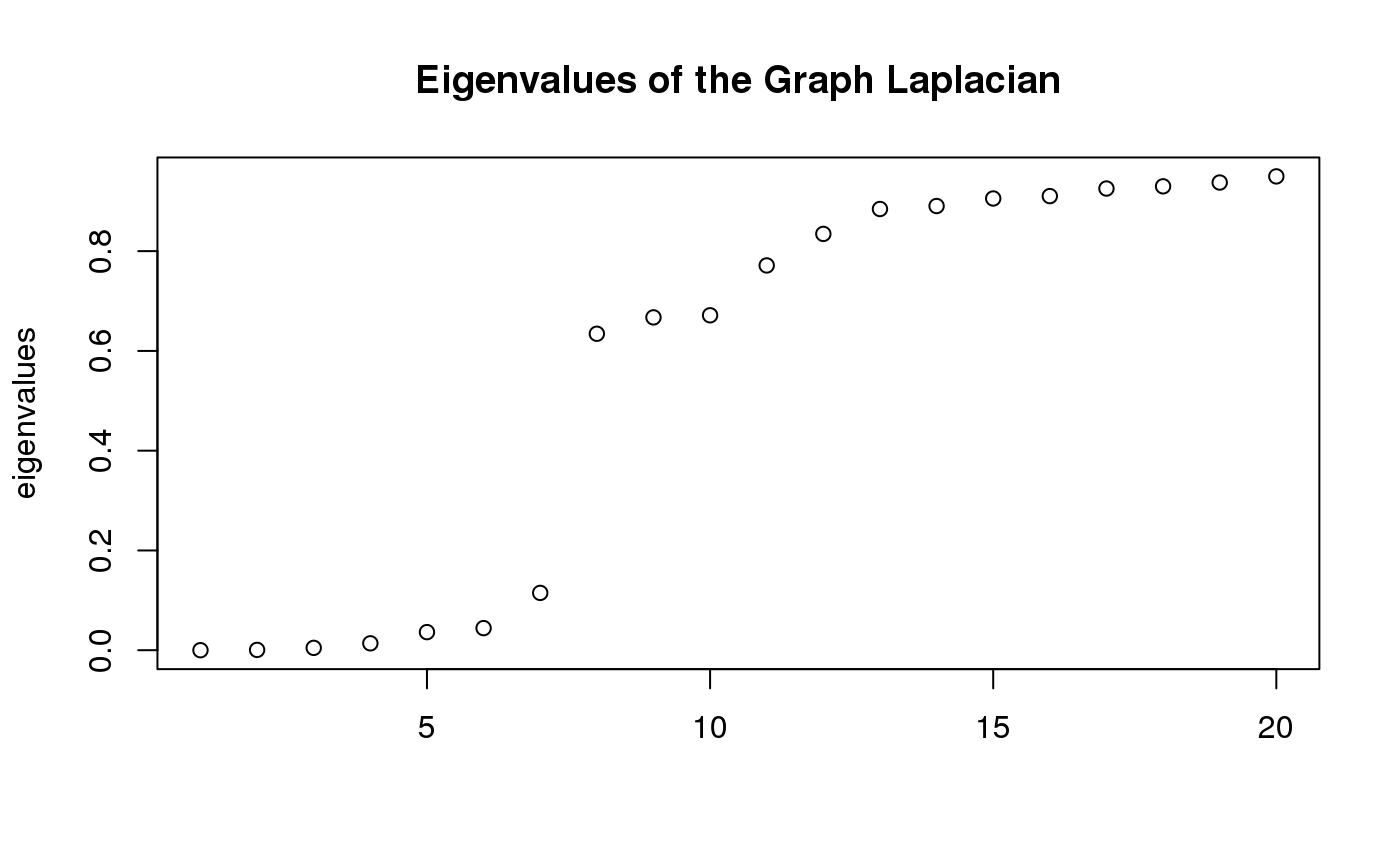
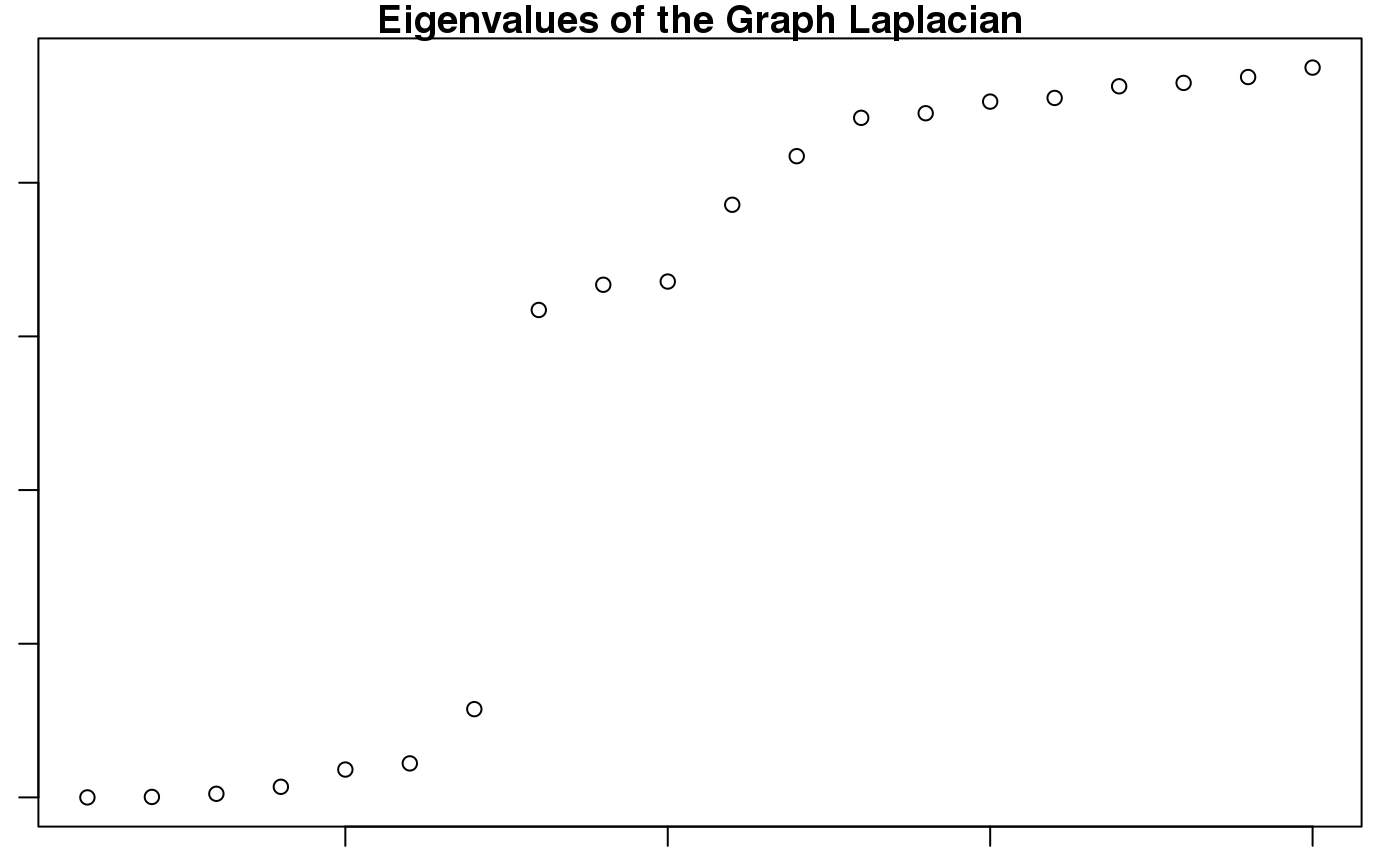
readme and .essage stuff, mapping fn sim bug

diff --git a/docs/articles/Joost_et_al.html b/docs/articles/Joost_et_al.html
@@ -81,7 +81,7 @@
       <h1>Clustering Pseudotime Inference on Skin Cell scRNA-seq</h1>
                         <h4 class="author">Matt Karikomi</h4>
             
-            <h4 class="date">2018-12-05</h4>
+            <h4 class="date">2018-12-06</h4>
       
       
       <div class="hidden name"><code>Joost_et_al.Rmd</code></div>
@@ -120,10 +120,10 @@ filtered_data &lt;-<span class="st"> </span><span class="kw"><a href="../referen
 <h2 class="hasAnchor">
 <a href="#compute-the-similarity-matrix" class="anchor"></a>Compute the Similarity Matrix</h2>
 <p>Run L2R2 on the processed data, outputting the number of iterations and value of the objective.</p>
-<div class="sourceCode"><pre class="sourceCode r"><code class="sourceCode r">sim &lt;-<span class="st"> </span><span class="kw"><a href="../reference/SimilarityM.html">SimilarityM</a></span>(<span class="dt">lambda =</span> <span class="fl">0.05</span>, <span class="dt">data =</span> filtered_data<span class="op">$</span>M_variable)</code></pre></div>
-<p>[1] “Iter Err” 1, 20.597435 2, 19.520815 3, 18.476136 4, 17.491670 5, 16.569212 6, 15.705525 7, 7.770185 8, 0.415020 9, 0.356815 10, 0.339246 11, 0.328628 12, 0.318293 13, 0.307808 14, 0.297460 15, 0.287398 16, 0.277677 17, 0.268311 18, 0.253743 19, 0.232315 20, 0.204575 21, 0.170748 22, 0.130527 23, 0.083237 24, 0.041469 25, 0.100519 [1] “not reach epsilon”</p>
+<div class="sourceCode"><pre class="sourceCode r"><code class="sourceCode r">S &lt;-<span class="st"> </span><span class="kw"><a href="../reference/SimilarityM.html">SimilarityM</a></span>(<span class="dt">lambda =</span> <span class="fl">0.05</span>, <span class="dt">data =</span> filtered_data<span class="op">$</span>M_variable)</code></pre></div>
+<p>[1] “Iter Err” 1, 20.597435 2, 19.520815 3, 18.476136 4, 17.491670 5, 16.569212 6, 15.705525 7, 7.770185 8, 0.415020 9, 0.356815 10, 0.339246 11, 0.328628 12, 0.318293 13, 0.307808 14, 0.297460 15, 0.287398 16, 0.277677 17, 0.268311 18, 0.253743 19, 0.232315 20, 0.204575 21, 0.170748 22, 0.130527 23, 0.083237 24, 0.041469 25, 0.100519 [1] “convergence by error min”</p>
 <p>Compute distances on the similarity matrix. If the truncated graph has multiple components, join them to improve inter-cluster distance estimation.</p>
-<div class="sourceCode"><pre class="sourceCode r"><code class="sourceCode r">mapped &lt;-<span class="st"> </span><span class="kw"><a href="../reference/RepresentationMap.html">RepresentationMap</a></span>(<span class="dt">similarity_matrix =</span> sim<span class="op">$</span>W,
+<div class="sourceCode"><pre class="sourceCode r"><code class="sourceCode r">low_dim_mapping &lt;-<span class="st"> </span><span class="kw"><a href="../reference/RepresentationMap.html">RepresentationMap</a></span>(<span class="dt">similarity_matrix =</span> S<span class="op">$</span>W,
                             <span class="dt">join_components =</span> <span class="ot">TRUE</span>)</code></pre></div>
 <p>[1] “computing flat embedding”</p>
 </div>
@@ -131,22 +131,23 @@ filtered_data &lt;-<span class="st"> </span><span class="kw"><a href="../referen
 <h2 class="hasAnchor">
 <a href="#cluster-the-cells" class="anchor"></a>Cluster the Cells</h2>
 <p>Infer cluster number using spectra of the ensemble Laplacian.</p>
-<div class="sourceCode"><pre class="sourceCode r"><code class="sourceCode r">clust &lt;-<span class="st"> </span><span class="kw"><a href="../reference/CountClusters.html">CountClusters</a></span>(<span class="dt">data =</span> sim<span class="op">$</span>W)
-n_clusters &lt;-<span class="st"> </span>clust<span class="op">$</span>n</code></pre></div>
+<div class="sourceCode"><pre class="sourceCode r"><code class="sourceCode r">clusters_evalues &lt;-<span class="st"> </span><span class="kw"><a href="../reference/CountClusters.html">CountClusters</a></span>(<span class="dt">data =</span> S<span class="op">$</span>W)
+n_clusters &lt;-<span class="st"> </span>clusters_evalues<span class="op">$</span>n</code></pre></div>
 <p>In this analysis, we obtain bounds on the number of clusters, where the lower bound is equal to the number of zero eigenvalues and the upper bound is the index of the eigenvalue preceding the largest eigengap. We take this value as the cluster number here.</p>
-<div class="sourceCode"><pre class="sourceCode r"><code class="sourceCode r"><span class="kw"><a href="https://www.rdocumentation.org/packages/graphics/topics/plot">plot</a></span>(<span class="kw"><a href="https://www.rdocumentation.org/packages/base/topics/c">c</a></span>(<span class="dv">1</span><span class="op">:</span><span class="dv">20</span>), 
-     clust<span class="op">$</span>eigs<span class="op">$</span>val[<span class="dv">1</span><span class="op">:</span><span class="dv">20</span>],
+<div class="sourceCode"><pre class="sourceCode r"><code class="sourceCode r"><span class="kw"><a href="https://www.rdocumentation.org/packages/graphics/topics/par">par</a></span>(<span class="dt">mar=</span><span class="kw"><a href="https://www.rdocumentation.org/packages/base/topics/c">c</a></span>(<span class="dv">1</span>,<span class="dv">1</span>,<span class="dv">1</span>,<span class="dv">1</span>))
+<span class="kw"><a href="https://www.rdocumentation.org/packages/graphics/topics/plot">plot</a></span>(<span class="kw"><a href="https://www.rdocumentation.org/packages/base/topics/c">c</a></span>(<span class="dv">1</span><span class="op">:</span><span class="dv">20</span>), 
+     clusters_evalues<span class="op">$</span>eigs<span class="op">$</span>val[<span class="dv">1</span><span class="op">:</span><span class="dv">20</span>],
      <span class="dt">xlab =</span> <span class="ot">NA</span>,
      <span class="dt">ylab =</span> <span class="st">'eigenvalues'</span>,
      <span class="dt">main =</span> <span class="st">'Eigenvalues of the Graph Laplacian'</span>)</code></pre></div>
 <p><img src="Joost_et_al_files/figure-html/unnamed-chunk-7-1.png" width="700"></p>
 <p>Factor the similarity matrix such that W = HxH’, using the computed cluster number for the rank of H.</p>
-<div class="sourceCode"><pre class="sourceCode r"><code class="sourceCode r">res &lt;-<span class="st"> </span>NMF<span class="op">::</span><span class="kw"><a href="https://www.rdocumentation.org/packages/NMF/topics/nmf">nmf</a></span>(<span class="dt">x =</span> sim<span class="op">$</span>W,
+<div class="sourceCode"><pre class="sourceCode r"><code class="sourceCode r">output_NMF &lt;-<span class="st"> </span>NMF<span class="op">::</span><span class="kw"><a href="https://www.rdocumentation.org/packages/NMF/topics/nmf">nmf</a></span>(<span class="dt">x =</span> S<span class="op">$</span>W,
               <span class="dt">rank =</span> n_clusters,
               <span class="dt">method =</span> <span class="st">'lee'</span>,
               <span class="dt">seed =</span> <span class="st">'nndsvd'</span>,
               <span class="dt">.options =</span> <span class="st">'nP'</span>);
-H &lt;-<span class="st"> </span>NMF<span class="op">::</span><span class="kw"><a href="https://www.rdocumentation.org/packages/NMF/topics/basis-coef-methods">basis</a></span>(res)</code></pre></div>
+H &lt;-<span class="st"> </span>NMF<span class="op">::</span><span class="kw"><a href="https://www.rdocumentation.org/packages/NMF/topics/basis-coef-methods">basis</a></span>(output_NMF)</code></pre></div>
 <p>Assign cluster labels to the cells.</p>
 <div class="sourceCode"><pre class="sourceCode r"><code class="sourceCode r">labels &lt;-<span class="st"> </span><span class="kw"><a href="https://www.rdocumentation.org/packages/base/topics/apply">apply</a></span>(H, <span class="dv">1</span>, <span class="cf">function</span>(x){
   <span class="kw"><a href="https://www.rdocumentation.org/packages/base/topics/which">which</a></span>(x <span class="op">==</span><span class="st"> </span><span class="kw"><a href="https://www.rdocumentation.org/packages/base/topics/Extremes">max</a></span>(x))})</code></pre></div>
@@ -155,7 +156,8 @@ H &lt;-<span class="st"> </span>NMF<span class="op">::</span><span class="kw"><a
 <a href="#visualize-the-clusters" class="anchor"></a>Visualize the Clusters</h3>
 <p>Cells are labeled by cluster membership and plotted on low-dimensional embedding (t-SNE) of the similarity matrix.</p>
 <div class="sourceCode"><pre class="sourceCode r"><code class="sourceCode r"><span class="co"># plot clusters</span>
-<span class="kw"><a href="../reference/FeatureScatterPlot.html">FeatureScatterPlot</a></span>(<span class="dt">flat_embedding =</span> mapped<span class="op">$</span>flat_embedding,
+<span class="kw"><a href="https://www.rdocumentation.org/packages/graphics/topics/par">par</a></span>(<span class="dt">mar=</span><span class="kw"><a href="https://www.rdocumentation.org/packages/base/topics/c">c</a></span>(<span class="dv">1</span>,<span class="dv">1</span>,<span class="dv">1</span>,<span class="dv">1</span>))
+<span class="kw"><a href="../reference/FeatureScatterPlot.html">FeatureScatterPlot</a></span>(<span class="dt">flat_embedding =</span> low_dim_mapping<span class="op">$</span>flat_embedding,
                          <span class="dt">feature =</span> <span class="kw"><a href="https://www.rdocumentation.org/packages/base/topics/factor">as.factor</a></span>(labels),
                          <span class="dt">title =</span> <span class="st">"NMF Cluster Labeling"</span>,
                          <span class="dt">subtitle =</span> <span class="st">"t-SNE Embedding"</span>,
@@ -164,7 +166,8 @@ H &lt;-<span class="st"> </span>NMF<span class="op">::</span><span class="kw"><a
 <p>As described in Joost et al (2016), Subpopulations including Basal, IFE-DI, IFE-DII, IFE-KI, IFE-KII were identified by standard techniques.</p>
 <div class="sourceCode"><pre class="sourceCode r"><code class="sourceCode r">true_labels &lt;-<span class="st"> </span>RSoptSC<span class="op">::</span>GSE67602_Joost<span class="op">$</span>annotation
 <span class="co"># plot clusters</span>
-<span class="kw"><a href="../reference/FeatureScatterPlot.html">FeatureScatterPlot</a></span>(<span class="dt">flat_embedding =</span> mapped<span class="op">$</span>flat_embedding,
+<span class="kw"><a href="https://www.rdocumentation.org/packages/graphics/topics/par">par</a></span>(<span class="dt">mar=</span><span class="kw"><a href="https://www.rdocumentation.org/packages/base/topics/c">c</a></span>(<span class="dv">1</span>,<span class="dv">1</span>,<span class="dv">1</span>,<span class="dv">1</span>))
+<span class="kw"><a href="../reference/FeatureScatterPlot.html">FeatureScatterPlot</a></span>(<span class="dt">flat_embedding =</span> low_dim_mapping<span class="op">$</span>flat_embedding,
                          <span class="dt">feature =</span> <span class="kw"><a href="https://www.rdocumentation.org/packages/base/topics/factor">as.factor</a></span>(true_labels),
                          <span class="dt">title =</span> <span class="st">"True Labeling"</span>,
                          <span class="dt">subtitle =</span> <span class="st">"t-SNE Embedding"</span>,
@@ -192,6 +195,7 @@ H &lt;-<span class="st"> </span>NMF<span class="op">::</span><span class="kw"><a
 <span class="co">#&gt; </span>
 <span class="co">#&gt;     intersect, setdiff, setequal, union</span>
 <span class="kw"><a href="https://www.rdocumentation.org/packages/base/topics/library">library</a></span>(RColorBrewer)
+<span class="kw"><a href="https://www.rdocumentation.org/packages/graphics/topics/par">par</a></span>(<span class="dt">mar=</span><span class="kw"><a href="https://www.rdocumentation.org/packages/base/topics/c">c</a></span>(<span class="dv">1</span>,<span class="dv">1</span>,<span class="dv">1</span>,<span class="dv">1</span>))
 n &lt;-<span class="st"> </span><span class="dv">6</span>
 n_cells &lt;-<span class="st"> </span><span class="kw"><a href="https://www.rdocumentation.org/packages/base/topics/length">length</a></span>(labels)
 
@@ -243,17 +247,17 @@ p &lt;-<span class="st"> </span>gplots<span class="op">::</span><span class="kw"
 <a href="#pseudotime-inference" class="anchor"></a>Pseudotime Inference</h2>
 <p>Compute cluster-cluster graph and find the root cluster.</p>
 <div class="sourceCode"><pre class="sourceCode r"><code class="sourceCode r">cluster_ptime &lt;-<span class="st"> </span><span class="kw"><a href="../reference/FindRootCluster.html">FindRootCluster</a></span>(<span class="dt">cluster_labels =</span> labels,
-                                 <span class="dt">flat_embedding =</span> mapped<span class="op">$</span>flat_embedding,
-                                 <span class="dt">dist_graph =</span> mapped<span class="op">$</span>dist_graph,
-                                 <span class="dt">dist_flat =</span> mapped<span class="op">$</span>dist_flat,
+                                 <span class="dt">flat_embedding =</span> low_dim_mapping<span class="op">$</span>flat_embedding,
+                                 <span class="dt">dist_graph =</span> low_dim_mapping<span class="op">$</span>dist_graph,
+                                 <span class="dt">dist_flat =</span> low_dim_mapping<span class="op">$</span>dist_flat,
                                  <span class="dt">reverse =</span> <span class="ot">TRUE</span>)</code></pre></div>
 <p>Compute the cell-cell graph and find the root cell.</p>
 <div class="sourceCode"><pre class="sourceCode r"><code class="sourceCode r">root_cell &lt;-<span class="st"> </span><span class="kw"><a href="../reference/FindRootCell.html">FindRootCell</a></span>(<span class="dt">use_flat_dist =</span> <span class="ot">FALSE</span>,
                           <span class="dt">cluster_order_by =</span> <span class="st">"distance"</span>,
                           <span class="dt">cell_order_by =</span> <span class="st">"distance"</span>,
                           <span class="dt">graph_cluster_mst =</span> cluster_ptime<span class="op">$</span>cluster_mst,
-                          <span class="dt">dist_graph  =</span> mapped<span class="op">$</span>dist_graph,
-                          <span class="dt">dist_flat =</span> mapped<span class="op">$</span>dist_flat,
+                          <span class="dt">dist_graph  =</span> low_dim_mapping<span class="op">$</span>dist_graph,
+                          <span class="dt">dist_flat =</span> low_dim_mapping<span class="op">$</span>dist_flat,
                           <span class="dt">cluster_labels =</span> labels,
                           <span class="dt">root_cluster =</span> cluster_ptime<span class="op">$</span>root_cluster)</code></pre></div>
 </div>
@@ -263,15 +267,17 @@ p &lt;-<span class="st"> </span>gplots<span class="op">::</span><span class="kw"
 <p>Compute the directional minimum spanning tree on the cluster-cluster graph for visualization.</p>
 <div class="sourceCode"><pre class="sourceCode r"><code class="sourceCode r"><span class="kw"><a href="https://www.rdocumentation.org/packages/base/topics/library">library</a></span>(ggnetwork)
 <span class="co">#&gt; Loading required package: ggplot2</span>
+<span class="kw"><a href="https://www.rdocumentation.org/packages/graphics/topics/par">par</a></span>(<span class="dt">mar=</span><span class="kw"><a href="https://www.rdocumentation.org/packages/base/topics/c">c</a></span>(<span class="dv">1</span>,<span class="dv">1</span>,<span class="dv">1</span>,<span class="dv">1</span>))
 cluster_predecessors &lt;-<span class="st"> </span><span class="kw"><a href="../reference/GetPredecessors.html">GetPredecessors</a></span>(cluster_ptime<span class="op">$</span>cluster_mst, cluster_ptime<span class="op">$</span>root_cluster)
 cluster_dtree &lt;-<span class="st"> </span><span class="kw"><a href="../reference/GetDominatorTree.html">GetDominatorTree</a></span>(cluster_predecessors, cluster_ptime<span class="op">$</span>graph_cluster)
 <span class="kw"><a href="../reference/PlotLineage.html">PlotLineage</a></span>(cluster_dtree)</code></pre></div>
 <p><img src="Joost_et_al_files/figure-html/unnamed-chunk-15-1.png" width="100%" height="100%"></p>
 <p>Compute the path-length vector from root, and plot the cells in the previously computed low-dimensional embedding.</p>
-<div class="sourceCode"><pre class="sourceCode r"><code class="sourceCode r">pseudotime &lt;-<span class="st"> </span>mapped<span class="op">$</span>dist_graph[root_cell,]
+<div class="sourceCode"><pre class="sourceCode r"><code class="sourceCode r">pseudotime &lt;-<span class="st"> </span>low_dim_mapping<span class="op">$</span>dist_graph[root_cell,]
 
 <span class="co"># plot pseudotime</span>
-<span class="kw"><a href="../reference/FeatureScatterPlot.html">FeatureScatterPlot</a></span>(<span class="dt">flat_embedding =</span> mapped<span class="op">$</span>flat_embedding,
+<span class="kw"><a href="https://www.rdocumentation.org/packages/graphics/topics/par">par</a></span>(<span class="dt">mar=</span><span class="kw"><a href="https://www.rdocumentation.org/packages/base/topics/c">c</a></span>(<span class="dv">1</span>,<span class="dv">1</span>,<span class="dv">1</span>,<span class="dv">1</span>))
+<span class="kw"><a href="../reference/FeatureScatterPlot.html">FeatureScatterPlot</a></span>(<span class="dt">flat_embedding =</span> low_dim_mapping<span class="op">$</span>flat_embedding,
                          <span class="dt">feature =</span> pseudotime,
                          <span class="dt">title =</span> <span class="st">"Pseudotime Labeling"</span>,
                          <span class="dt">subtitle =</span> <span class="st">"t-SNE Embedding"</span>,
@@ -283,31 +289,34 @@ cluster_dtree &lt;-<span class="st"> </span><span class="kw"><a href="../referen
 <a href="#plot-gene-expression-on-the-flat-embedding" class="anchor"></a>Plot Gene Expression on the Flat Embedding</h2>
 <p>Plot Expression of Krt14, Krt10, and Lor in t-SNE Space:</p>
 <div class="sourceCode"><pre class="sourceCode r"><code class="sourceCode r">gene_index &lt;-<span class="st"> </span><span class="kw"><a href="https://www.rdocumentation.org/packages/base/topics/which">which</a></span>(gene_names <span class="op">==</span><span class="st"> 'Krt14'</span>)
-labeling &lt;-<span class="st"> </span>logdata[gene_index,]
+data_gene &lt;-<span class="st"> </span>logdata[gene_index,]
 
 <span class="co"># plot features</span>
-<span class="kw"><a href="../reference/FeatureScatterPlot.html">FeatureScatterPlot</a></span>(<span class="dt">flat_embedding =</span> mapped<span class="op">$</span>flat_embedding,
-                    <span class="dt">feature =</span> labeling,
+<span class="kw"><a href="https://www.rdocumentation.org/packages/graphics/topics/par">par</a></span>(<span class="dt">mar=</span><span class="kw"><a href="https://www.rdocumentation.org/packages/base/topics/c">c</a></span>(<span class="dv">1</span>,<span class="dv">1</span>,<span class="dv">1</span>,<span class="dv">1</span>))
+<span class="kw"><a href="../reference/FeatureScatterPlot.html">FeatureScatterPlot</a></span>(<span class="dt">flat_embedding =</span> low_dim_mapping<span class="op">$</span>flat_embedding,
+                    <span class="dt">feature =</span> data_gene,
                     <span class="dt">title =</span> <span class="st">"Krt14 Expression"</span>,
                     <span class="dt">subtitle =</span> <span class="st">"t-SNE Embedding"</span>,
                     <span class="dt">featurename =</span> <span class="st">"Log Krt14 Expression"</span>)</code></pre></div>
 <p><img src="Joost_et_al_files/figure-html/unnamed-chunk-17-1.png" width="100%" height="100%"></p>
 <div class="sourceCode"><pre class="sourceCode r"><code class="sourceCode r">gene_index &lt;-<span class="st"> </span><span class="kw"><a href="https://www.rdocumentation.org/packages/base/topics/which">which</a></span>(gene_names <span class="op">==</span><span class="st"> 'Krt10'</span>)
-labeling &lt;-<span class="st"> </span>logdata[gene_index,]
+data_gene &lt;-<span class="st"> </span>logdata[gene_index,]
 
 <span class="co"># plot features</span>
-<span class="kw"><a href="../reference/FeatureScatterPlot.html">FeatureScatterPlot</a></span>(<span class="dt">flat_embedding =</span> mapped<span class="op">$</span>flat_embedding,
-                    <span class="dt">feature =</span> labeling,
+<span class="kw"><a href="https://www.rdocumentation.org/packages/graphics/topics/par">par</a></span>(<span class="dt">mar=</span><span class="kw"><a href="https://www.rdocumentation.org/packages/base/topics/c">c</a></span>(<span class="dv">1</span>,<span class="dv">1</span>,<span class="dv">1</span>,<span class="dv">1</span>))
+<span class="kw"><a href="../reference/FeatureScatterPlot.html">FeatureScatterPlot</a></span>(<span class="dt">flat_embedding =</span> low_dim_mapping<span class="op">$</span>flat_embedding,
+                    <span class="dt">feature =</span> data_gene,
                     <span class="dt">title =</span> <span class="st">"Krt10 Expression"</span>,
                     <span class="dt">subtitle =</span> <span class="st">"t-SNE Embedding"</span>,
                     <span class="dt">featurename =</span> <span class="st">"Log Krt10 Expression"</span>)</code></pre></div>
 <p><img src="Joost_et_al_files/figure-html/unnamed-chunk-18-1.png" width="100%" height="100%"></p>
 <div class="sourceCode"><pre class="sourceCode r"><code class="sourceCode r">gene_index &lt;-<span class="st"> </span><span class="kw"><a href="https://www.rdocumentation.org/packages/base/topics/which">which</a></span>(gene_names <span class="op">==</span><span class="st"> 'Lor'</span>)
-labeling &lt;-<span class="st"> </span>logdata[gene_index,]
+data_gene &lt;-<span class="st"> </span>logdata[gene_index,]
 
 <span class="co"># plot features</span>
-<span class="kw"><a href="../reference/FeatureScatterPlot.html">FeatureScatterPlot</a></span>(<span class="dt">flat_embedding =</span> mapped<span class="op">$</span>flat_embedding,
-                    <span class="dt">feature =</span> labeling,
+<span class="kw"><a href="https://www.rdocumentation.org/packages/graphics/topics/par">par</a></span>(<span class="dt">mar=</span><span class="kw"><a href="https://www.rdocumentation.org/packages/base/topics/c">c</a></span>(<span class="dv">1</span>,<span class="dv">1</span>,<span class="dv">1</span>,<span class="dv">1</span>))
+<span class="kw"><a href="../reference/FeatureScatterPlot.html">FeatureScatterPlot</a></span>(<span class="dt">flat_embedding =</span> low_dim_mapping<span class="op">$</span>flat_embedding,
+                    <span class="dt">feature =</span> data_gene,
                     <span class="dt">title =</span> <span class="st">"Lor Expression"</span>,
                     <span class="dt">subtitle =</span> <span class="st">"t-SNE Embedding"</span>,
                     <span class="dt">featurename =</span> <span class="st">"Log Lor Expression"</span>)</code></pre></div>
@@ -317,17 +326,20 @@ labeling &lt;-<span class="st"> </span>logdata[gene_index,]
 <h2 class="hasAnchor">
 <a href="#plot-gene-expression-levels-in-cells-grouped-by-cluster" class="anchor"></a>Plot Gene Expression Levels in Cells Grouped by Cluster</h2>
 <p>Violin Plot of Krt14 expression. Note strong expression of the basal compartment (clusters 1 and 6):</p>
-<div class="sourceCode"><pre class="sourceCode r"><code class="sourceCode r">  <span class="kw"><a href="../reference/ViolinPlotExpression.html">ViolinPlotExpression</a></span>(<span class="dt">data =</span> logdata,
+<div class="sourceCode"><pre class="sourceCode r"><code class="sourceCode r">  <span class="kw"><a href="https://www.rdocumentation.org/packages/graphics/topics/par">par</a></span>(<span class="dt">mar=</span><span class="kw"><a href="https://www.rdocumentation.org/packages/base/topics/c">c</a></span>(<span class="dv">1</span>,<span class="dv">1</span>,<span class="dv">1</span>,<span class="dv">1</span>))
+  <span class="kw"><a href="../reference/ViolinPlotExpression.html">ViolinPlotExpression</a></span>(<span class="dt">data =</span> logdata,
                        <span class="dt">gene_names =</span> gene_names,
                        <span class="dt">labels =</span> labels,
                        <span class="dt">gene_name =</span> <span class="st">"Krt14"</span>)</code></pre></div>
 <p><img src="Joost_et_al_files/figure-html/unnamed-chunk-20-1.png" width="100%" height="100%"> Violin Plot of Krt10 expression. Note strong expression in the IFE-DI/DII compartments (clusters 2, 4, 5, 7):</p>
-<div class="sourceCode"><pre class="sourceCode r"><code class="sourceCode r">  <span class="kw"><a href="../reference/ViolinPlotExpression.html">ViolinPlotExpression</a></span>(<span class="dt">data =</span> logdata,
+<div class="sourceCode"><pre class="sourceCode r"><code class="sourceCode r">  <span class="kw"><a href="https://www.rdocumentation.org/packages/graphics/topics/par">par</a></span>(<span class="dt">mar=</span><span class="kw"><a href="https://www.rdocumentation.org/packages/base/topics/c">c</a></span>(<span class="dv">1</span>,<span class="dv">1</span>,<span class="dv">1</span>,<span class="dv">1</span>))
+  <span class="kw"><a href="../reference/ViolinPlotExpression.html">ViolinPlotExpression</a></span>(<span class="dt">data =</span> logdata,
                        <span class="dt">gene_names =</span> gene_names,
                        <span class="dt">labels =</span> labels,
                        <span class="dt">gene_name =</span> <span class="st">"Krt10"</span>)</code></pre></div>
 <p><img src="Joost_et_al_files/figure-html/unnamed-chunk-21-1.png" width="100%" height="100%"> Violin Plot of Lor expression. Note strong expression in cluster 3, which completely encompasses IFE-KI/KII compartments:</p>
-<div class="sourceCode"><pre class="sourceCode r"><code class="sourceCode r">  <span class="kw"><a href="../reference/ViolinPlotExpression.html">ViolinPlotExpression</a></span>(<span class="dt">data =</span> logdata,
+<div class="sourceCode"><pre class="sourceCode r"><code class="sourceCode r">  <span class="kw"><a href="https://www.rdocumentation.org/packages/graphics/topics/par">par</a></span>(<span class="dt">mar=</span><span class="kw"><a href="https://www.rdocumentation.org/packages/base/topics/c">c</a></span>(<span class="dv">1</span>,<span class="dv">1</span>,<span class="dv">1</span>,<span class="dv">1</span>))
+  <span class="kw"><a href="../reference/ViolinPlotExpression.html">ViolinPlotExpression</a></span>(<span class="dt">data =</span> logdata,
                        <span class="dt">gene_names =</span> gene_names,
                        <span class="dt">labels =</span> labels,
                        <span class="dt">gene_name =</span> <span class="st">"Lor"</span>)</code></pre></div>
@@ -353,7 +365,8 @@ labeling &lt;-<span class="st"> </span>logdata[gene_index,]
 <h3 class="hasAnchor">
 <a href="#circos-plot-of-intercellular-network" class="anchor"></a>Circos Plot of Intercellular Network</h3>
 <p>Now plot the previous result as a circos plot on the cells in the dataset, ordered by cluster.</p>
-<div class="sourceCode"><pre class="sourceCode r"><code class="sourceCode r">  sigonly =<span class="st"> </span><span class="ot">FALSE</span>   <span class="co"># If true =&gt; input is only signaler cells, and P will not be thresholded</span>
+<div class="sourceCode"><pre class="sourceCode r"><code class="sourceCode r">  <span class="kw"><a href="https://www.rdocumentation.org/packages/graphics/topics/par">par</a></span>(<span class="dt">mar=</span><span class="kw"><a href="https://www.rdocumentation.org/packages/base/topics/c">c</a></span>(<span class="dv">1</span>,<span class="dv">1</span>,<span class="dv">1</span>,<span class="dv">1</span>))
+  sigonly =<span class="st"> </span><span class="ot">FALSE</span>   <span class="co"># If true =&gt; input is only signaler cells, and P will not be thresholded</span>
   subsample =<span class="st"> </span><span class="ot">TRUE</span>
   threshold =<span class="st"> </span><span class="fl">0.05</span>
   nsample =<span class="st"> </span><span class="dv">100</span>
@@ -366,6 +379,42 @@ labeling &lt;-<span class="st"> </span>logdata[gene_index,]
           <span class="dt">nsample =</span> nsample,
           <span class="dt">plottitle =</span> <span class="st">"Network Inference on the Activation and Suppression of Tgfb Targets "</span>)</code></pre></div>
 <p><img src="Joost_et_al_files/figure-html/unnamed-chunk-24-1.png" width="100%" height="100%"></p>
+</div>
+<div id="heatmap-of-signaling-marker-expression" class="section level3">
+<h3 class="hasAnchor">
+<a href="#heatmap-of-signaling-marker-expression" class="anchor"></a>Heatmap of Signaling Marker Expression</h3>
+<p>Visualize the expression of ligand/receptor and up/down target expression across clusters</p>
+<div class="sourceCode"><pre class="sourceCode r"><code class="sourceCode r">  <span class="kw"><a href="https://www.rdocumentation.org/packages/graphics/topics/par">par</a></span>(<span class="dt">mar=</span><span class="kw"><a href="https://www.rdocumentation.org/packages/base/topics/c">c</a></span>(<span class="dv">1</span>,<span class="dv">1</span>,<span class="dv">1</span>,<span class="dv">1</span>))
+  sigonly =<span class="st"> </span><span class="ot">FALSE</span>   <span class="co"># If true =&gt; input is only signaler cells, and P will not be thresholded</span>
+  subsample =<span class="st"> </span><span class="ot">FALSE</span>
+  threshold =<span class="st"> </span><span class="fl">0.05</span>
+  gene_list =<span class="st"> </span><span class="kw"><a href="https://www.rdocumentation.org/packages/base/topics/c">c</a></span>(<span class="st">'Tgfb1'</span>, <span class="st">'Tgfb2'</span>, 
+                <span class="st">'Tgfbr1'</span>, <span class="st">'Tgfbr2'</span>,
+                <span class="st">'Zeb2'</span>,<span class="st">'Smad2'</span>,<span class="st">'Wnt4'</span>,<span class="st">'Wnt11'</span>,<span class="st">'Bmp7'</span>,<span class="st">'Sox9'</span>,<span class="st">'Notch1'</span>,
+                <span class="st">'Crebbp'</span>,<span class="st">'Fos'</span>,<span class="st">'Id1'</span>,<span class="st">'Jun'</span>,<span class="st">'Runx1'</span>,<span class="st">'Smad1'</span>,<span class="st">'Smad5'</span>,<span class="st">'Sox4'</span>,<span class="st">'Cdh1'</span>)
+  
+  filtered &lt;-<span class="st"> </span><span class="kw"><a href="../reference/HeatSig.html">HeatSig</a></span>(<span class="dt">M =</span> GSE67602_Joost<span class="op">$</span>data,
+                      <span class="dt">gene_names =</span> GSE67602_Joost<span class="op">$</span>gene_names,
+                      <span class="dt">cell_order =</span> sorted_cell<span class="op">$</span>ix,
+                      <span class="dt">cell_labels =</span> labels,
+                      <span class="dt">gene_list =</span> gene_list)
+  clabs &lt;-<span class="st"> </span><span class="kw"><a href="https://www.rdocumentation.org/packages/base/topics/c">c</a></span>(<span class="dv">1</span><span class="op">:</span>n_clusters)
+  rlabs &lt;-<span class="st"> </span>gene_list
+  
+  p &lt;-<span class="st"> </span>gplots<span class="op">::</span><span class="kw"><a href="https://www.rdocumentation.org/packages/gplots/topics/heatmap.2">heatmap.2</a></span>(<span class="kw"><a href="https://www.rdocumentation.org/packages/base/topics/Log">log10</a></span>(<span class="kw"><a href="https://www.rdocumentation.org/packages/base/topics/t">t</a></span>(filtered) <span class="op">+</span><span class="st"> </span><span class="dv">1</span>),
+                         <span class="dt">col =</span> <span class="kw"><a href="https://www.rdocumentation.org/packages/base/topics/rev">rev</a></span>(<span class="kw"><a href="https://www.rdocumentation.org/packages/RColorBrewer/topics/ColorBrewer">brewer.pal</a></span>(<span class="dv">11</span>,<span class="st">"RdBu"</span>)),
+                         <span class="dt">trace =</span> <span class="st">'none'</span>,
+                         <span class="dt">dendrogram=</span><span class="st">'none'</span>,
+                         <span class="dt">Rowv=</span><span class="ot">FALSE</span>, <span class="dt">Colv=</span><span class="ot">FALSE</span>,
+                         <span class="dt">labCol =</span> clabs,
+                         <span class="dt">labRow =</span> rlabs,
+                         <span class="dt">srtCol =</span> <span class="dv">0</span>,
+                         <span class="dt">cexCol =</span><span class="dv">1</span>,
+                         <span class="dt">cexRow =</span> .<span class="dv">7</span>,
+                         <span class="dt">lhei =</span> <span class="kw"><a href="https://www.rdocumentation.org/packages/base/topics/c">c</a></span>(<span class="dv">1</span>,<span class="dv">2</span>),
+                         <span class="dt">key.title =</span> <span class="ot">NA</span>,
+                         <span class="dt">scale =</span> <span class="st">"row"</span>)</code></pre></div>
+<p><img src="Joost_et_al_files/figure-html/unnamed-chunk-25-1.png" width="100%" height="100%"></p>
 </div>
 </div>
   </div>

diff --git a/docs/index.html b/docs/index.html
@@ -83,8 +83,12 @@
 <div id="rsoptsc" class="section level1">
 <div class="page-header"><h1 class="hasAnchor">
 <a href="#rsoptsc" class="anchor"></a>RSoptSC</h1></div>
-<p><img src="reference/figures/logo.svg" width="100%"></p>
-<p>We present SoptSC, a similarity matrix optimization method for single-cell data analysis, which performs clustering, pseudotemporal ordering, lineage and marker gene identification from a cell similarity matrix. SoptSC also presents a new function: cell-cell signaling network inference, enabling the reconstruction of complex lineage relationships and associated feedback/feedforward interactions. As we show by application to several datasets, SoptSC can predict the number of clusters and the initial state unsupervised, and outperforms current methods for inference of clusters and pseudotime from single-cell data. Learn more at <code><a href="articles/Joost_et_al.html">vignette("Joost_et_al")</a></code>.</p>
+<p><img src="reference/figures/logo.svg" width="60%"></p>
+<p>RSoptSC is an R package for SoptSC: performing analysis and prediction on single-cell RNA sequencing (scRNA-seq) data. SoptSC can infer cell-cell communication between single cells, and completes multiple single-cell analysis tasks from a single coherent framework. This enables the reconstruction of complex lineage relationships alongside prediction of specific feedback or feedforward interactions.</p>
+<ul>
+<li><p>Demo SoptSC at <code><a href="articles/Joost_et_al.html">vignette("Joost_et_al")</a></code></p></li>
+<li><p>Read the SoptSC preprint on <a href="https://www.biorxiv.org/content/early/2018/05/12/168922">bioRxiv</a></p></li>
+</ul>
 <div id="installation" class="section level2">
 <h2 class="hasAnchor">
 <a href="#installation" class="anchor"></a>Installation</h2>
